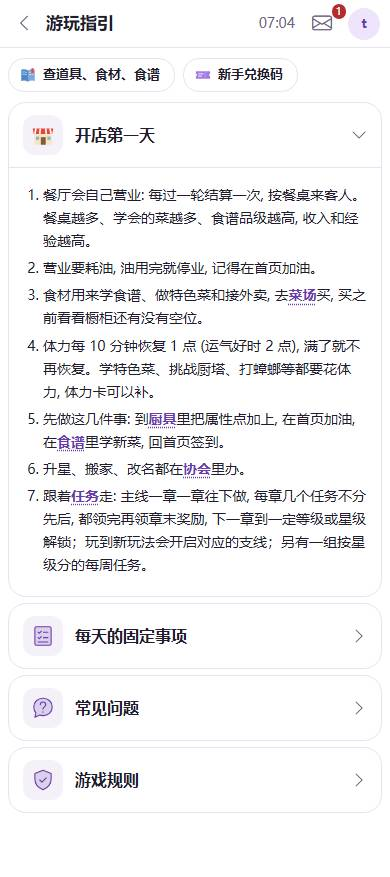
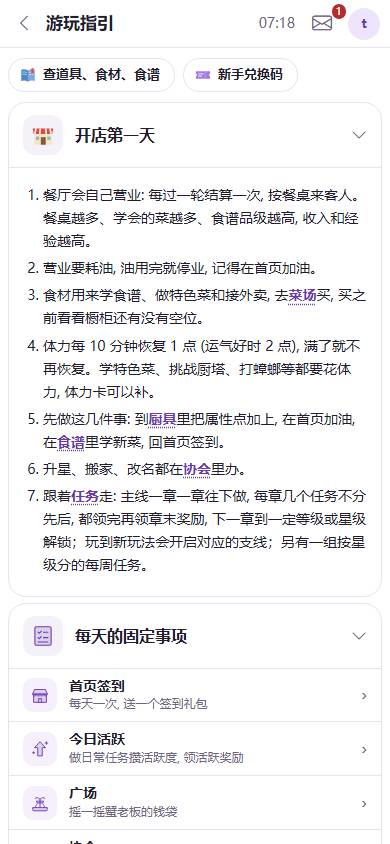
界面改版 P11 反馈：兑换码占位字不用宋体，游玩指引每天事项的地点加粗

diff --git a/apps/web/src/styles/main.css b/apps/web/src/styles/main.css
@@ -8951,3 +8951,12 @@ a.dt-entry-row::after {
 .dt-entry-row .dt-row-title {
   font-weight: 600;
 }
+/* 等宽字体里没有中文，占位字会落到宋体：占位字用正文字体（P11 用户反馈） */
+.dt-mono::placeholder {
+  font-family: var(--dt-font-sans);
+  letter-spacing: 0;
+}
+/* 游玩指引每天的事项：地点名加粗（P11 用户反馈） */
+.dt-guide-daily .dt-row-title {
+  font-weight: 600;
+}
